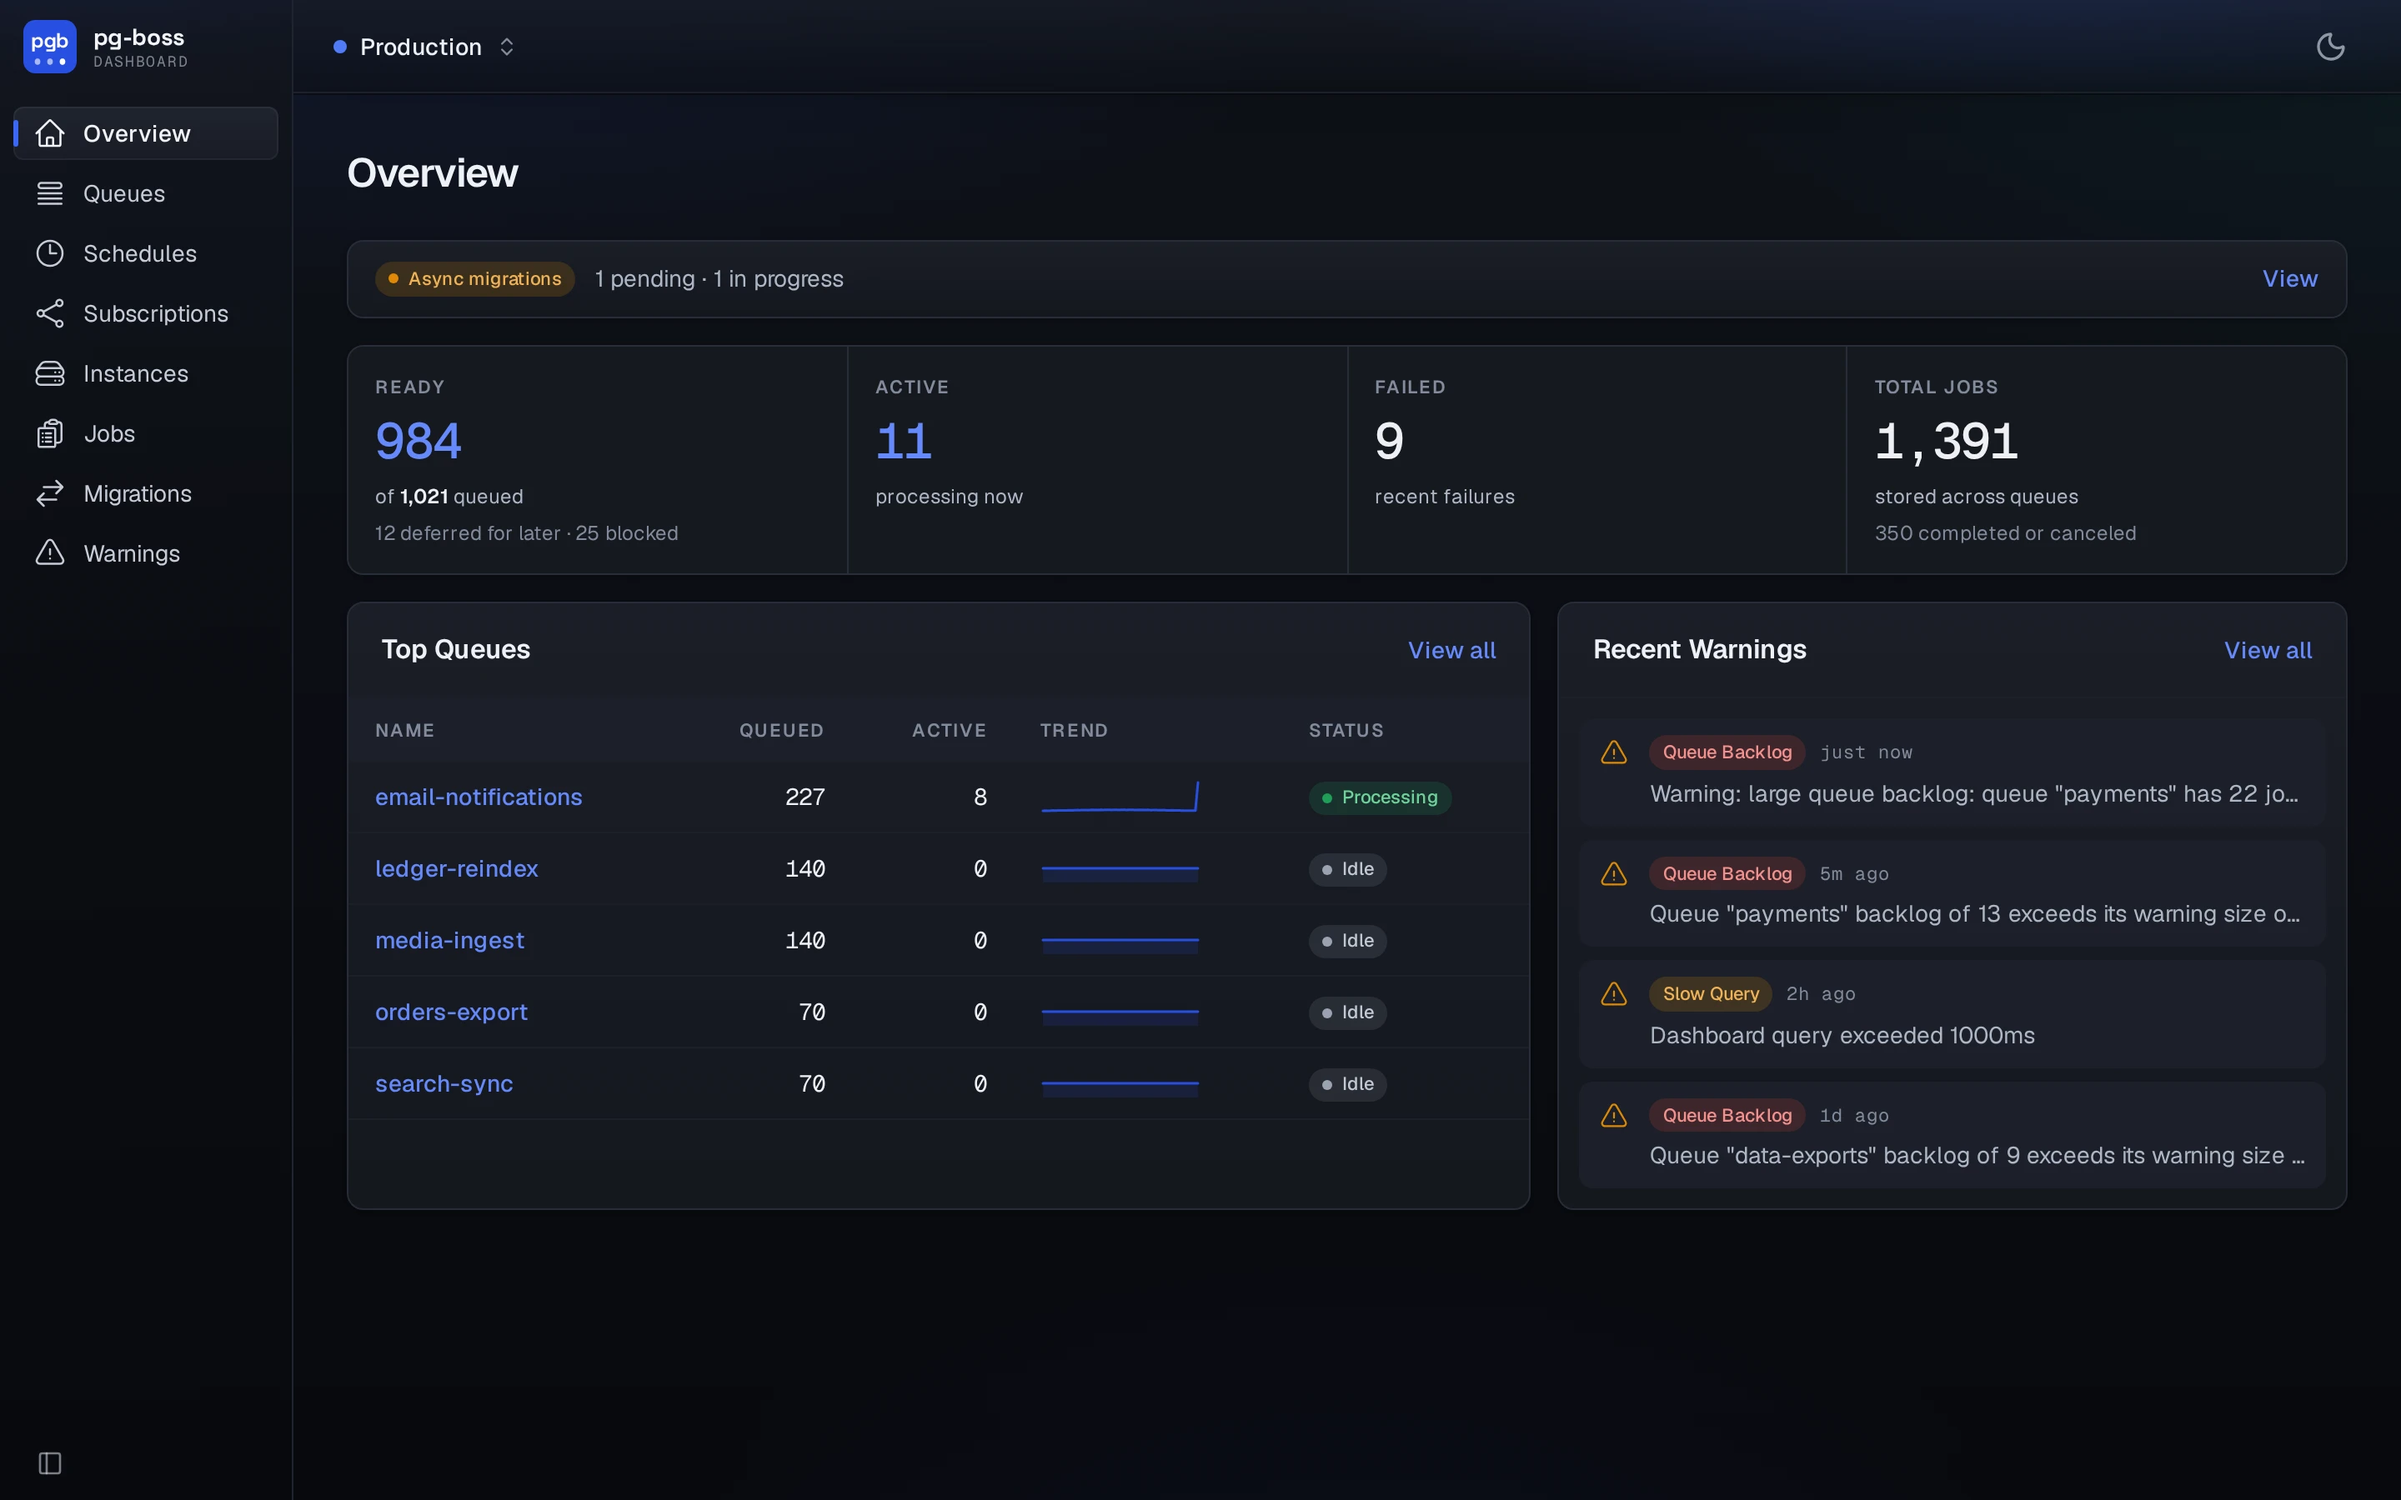
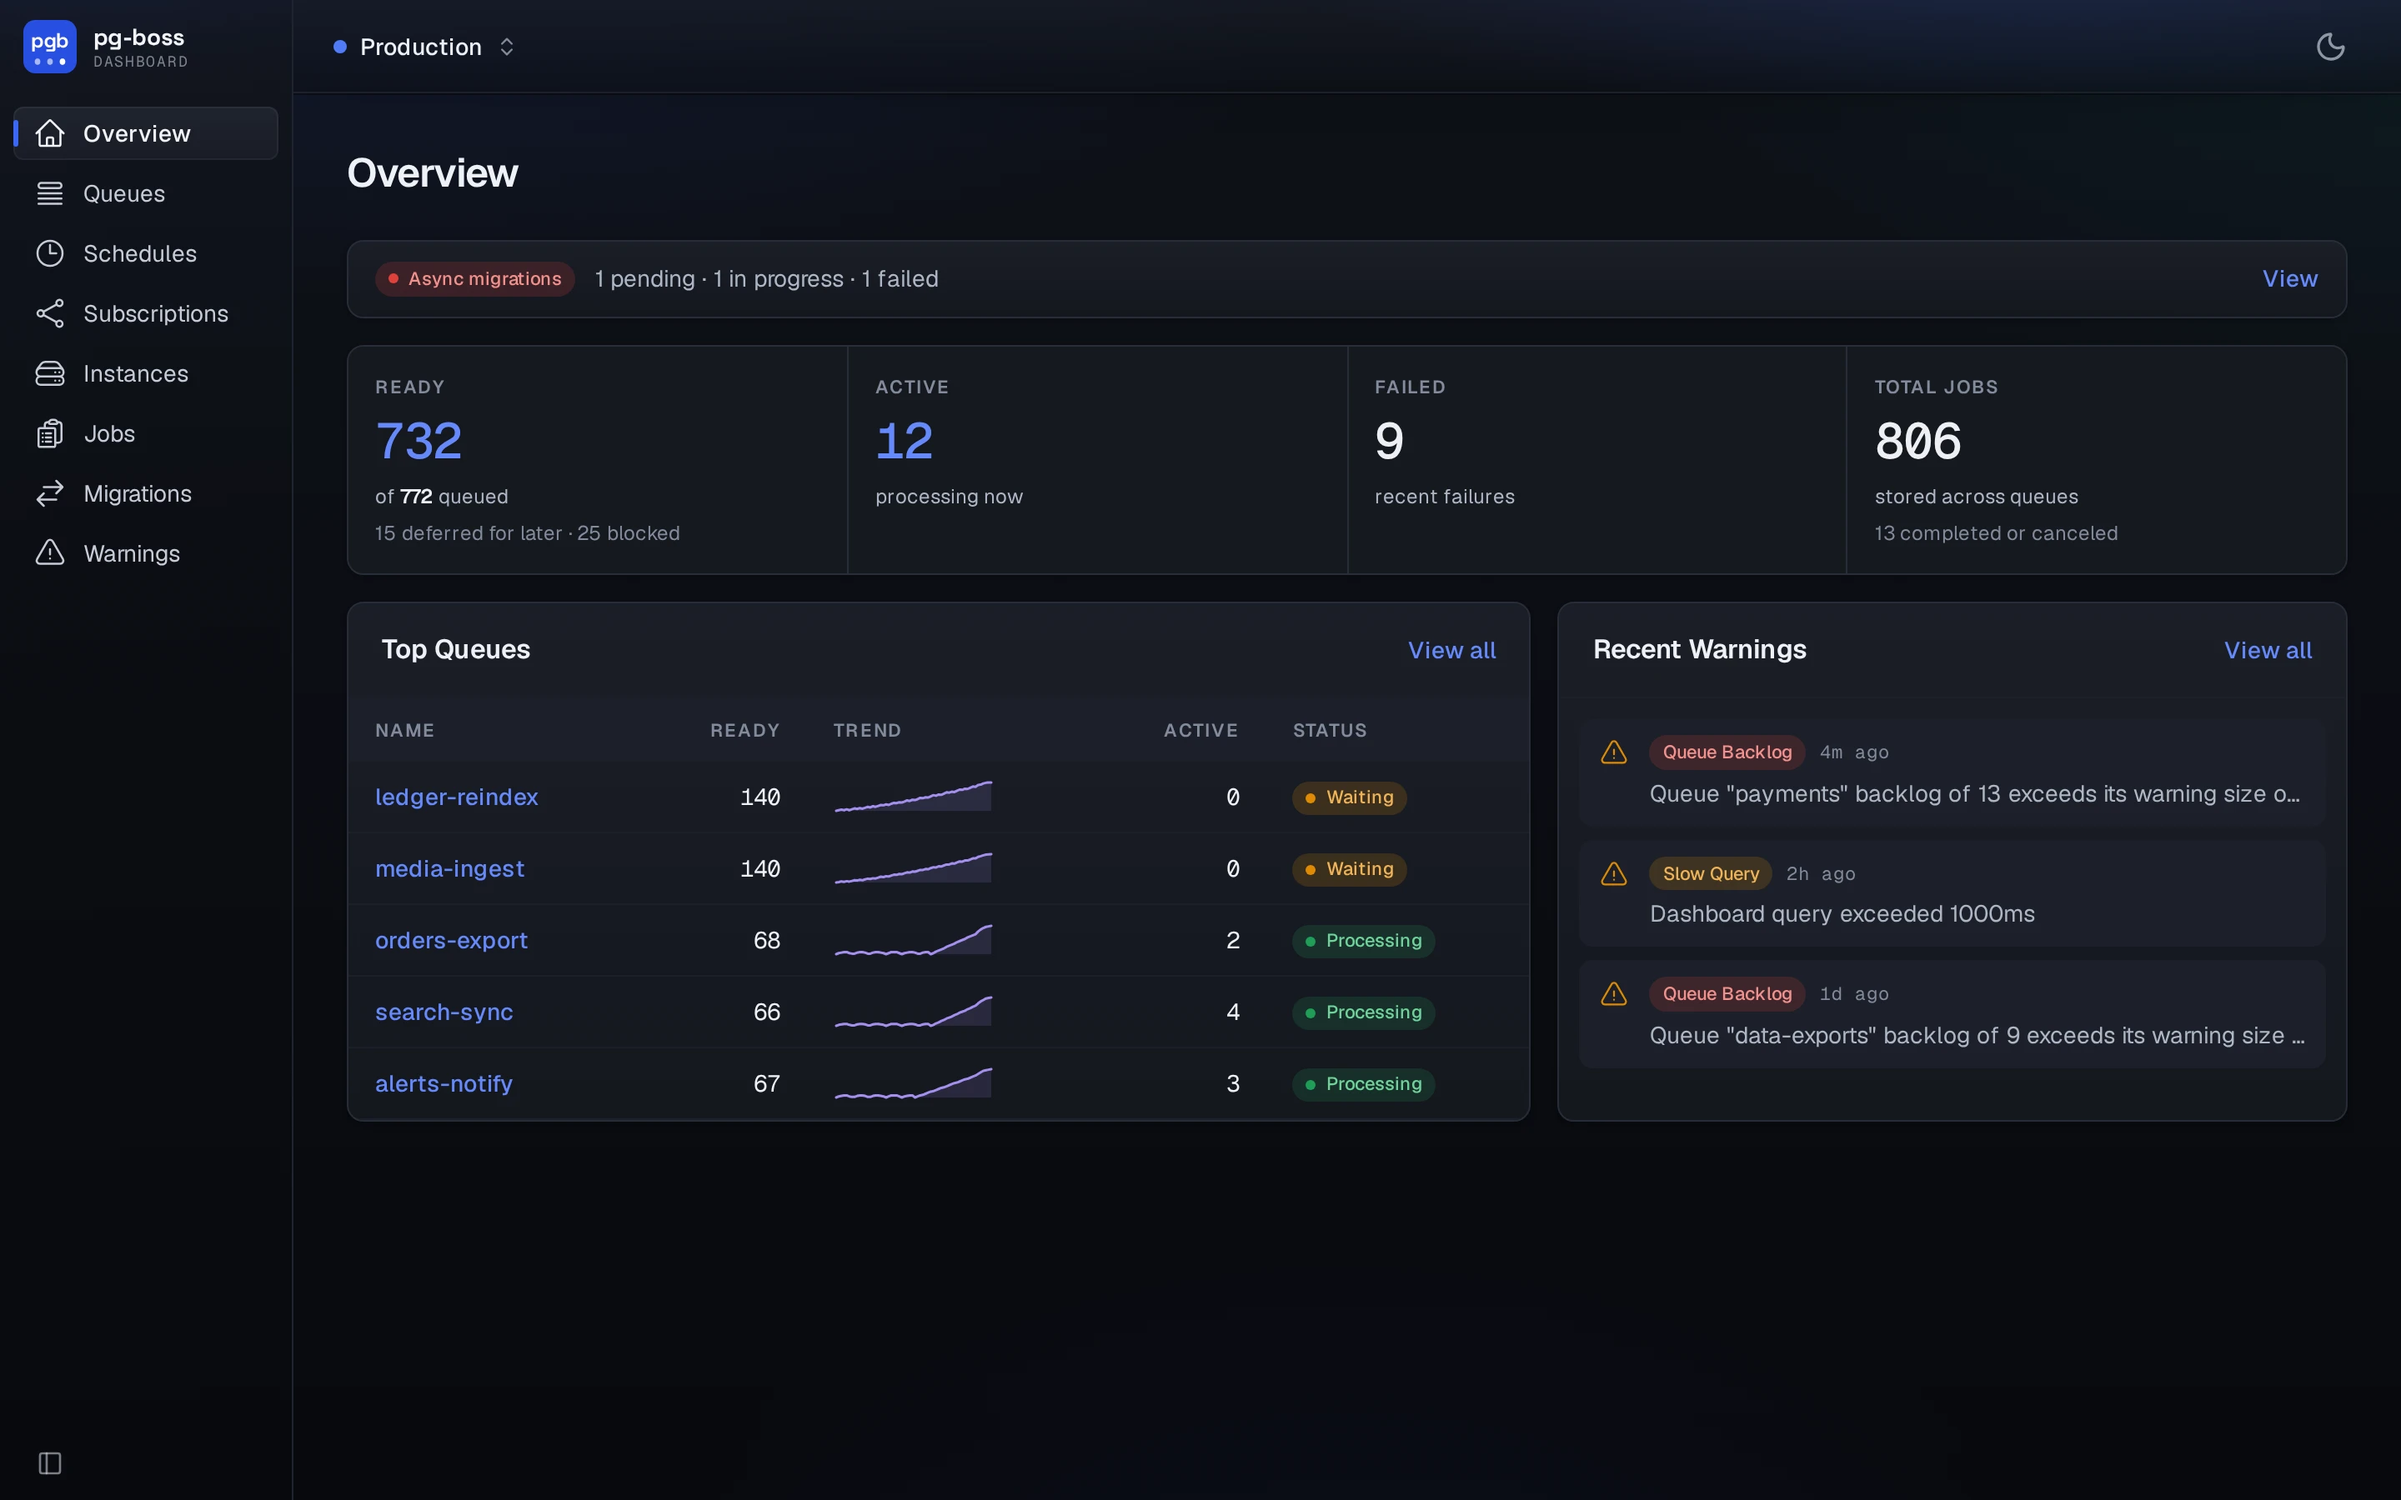
The dev seed leaves a few jobs active on the fleet queues falling behind, and the overview screenshots are retaken

diff --git a/packages/dashboard/scripts/init-dev-db.ts b/packages/dashboard/scripts/init-dev-db.ts
@@ -167,7 +167,8 @@ const FLEET_TASKS = ['sync', 'ingest', 'export', 'reindex', 'notify', 'reconcile
 /**
  * A fleet of queues beyond the handful above, so the queue views can be judged at a size closer to a
  * real deployment's. Named domain-task, each with a few ready jobs (none for some) and nobody working
- * them, so their backlogs stay put. Their stats history comes from `seedQueueStats`, like every queue's.
+ * them, so their backlogs stay put, except the ones falling behind, which hold a few active jobs
+ * fetched and never completed. Their stats history comes from `seedQueueStats`, like every queue's.
  */
 /** Fleet queues whose last hour of stats shows them in trouble, so health has every color to draw. */
 const TROUBLE: Record<string, 'stalled' | 'behind'> = {
@@ -192,6 +193,10 @@ async function seedFleetQueues () {
     const ready = troubleOf(name) === 'stalled' ? 140 : troubleOf(name) === 'behind' ? 70 : (k * 7) % 9
     if (ready > 0) {
       await boss.insert(name, Array.from({ length: ready }, (_, i) => ({ data: { seq: i } })))
+    }
+    // A queue falling behind is being worked, just not fast enough, so a few of its jobs are active.
+    if (troubleOf(name) === 'behind') {
+      await boss.fetch(name, { batchSize: 2 + (k % 3) })
     }
   }
 
